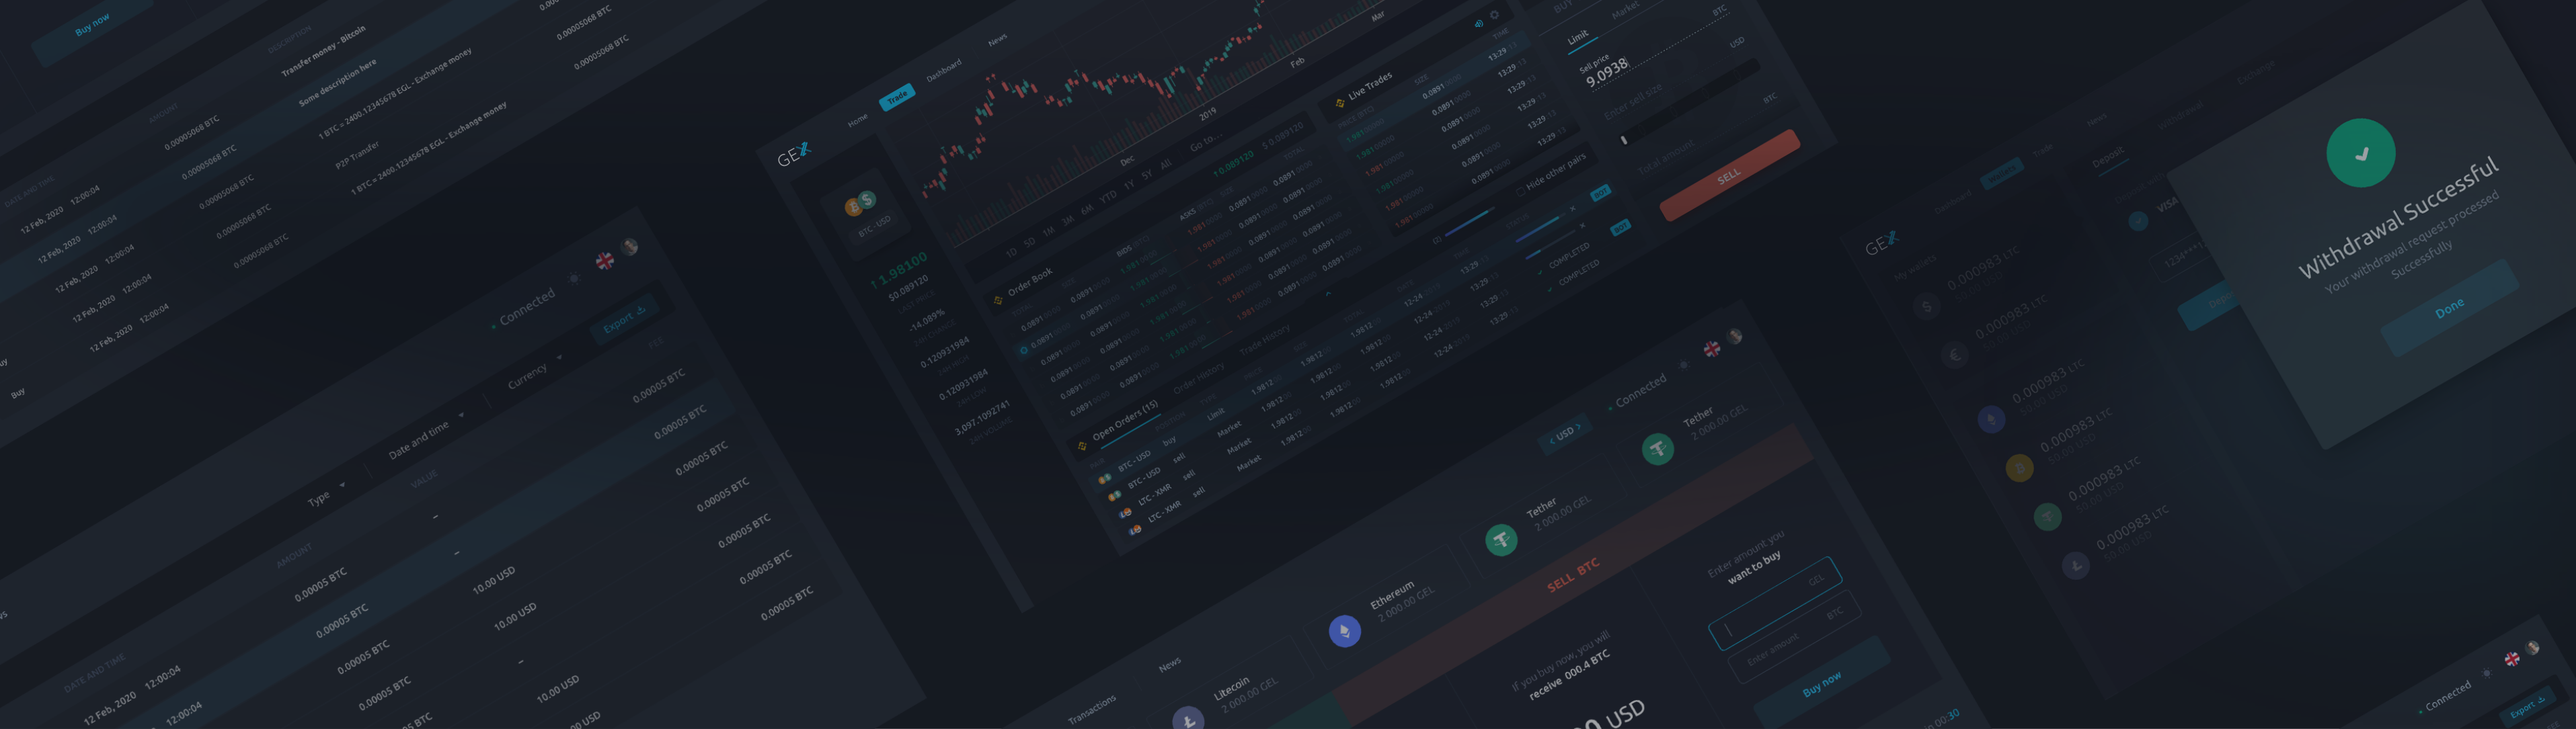
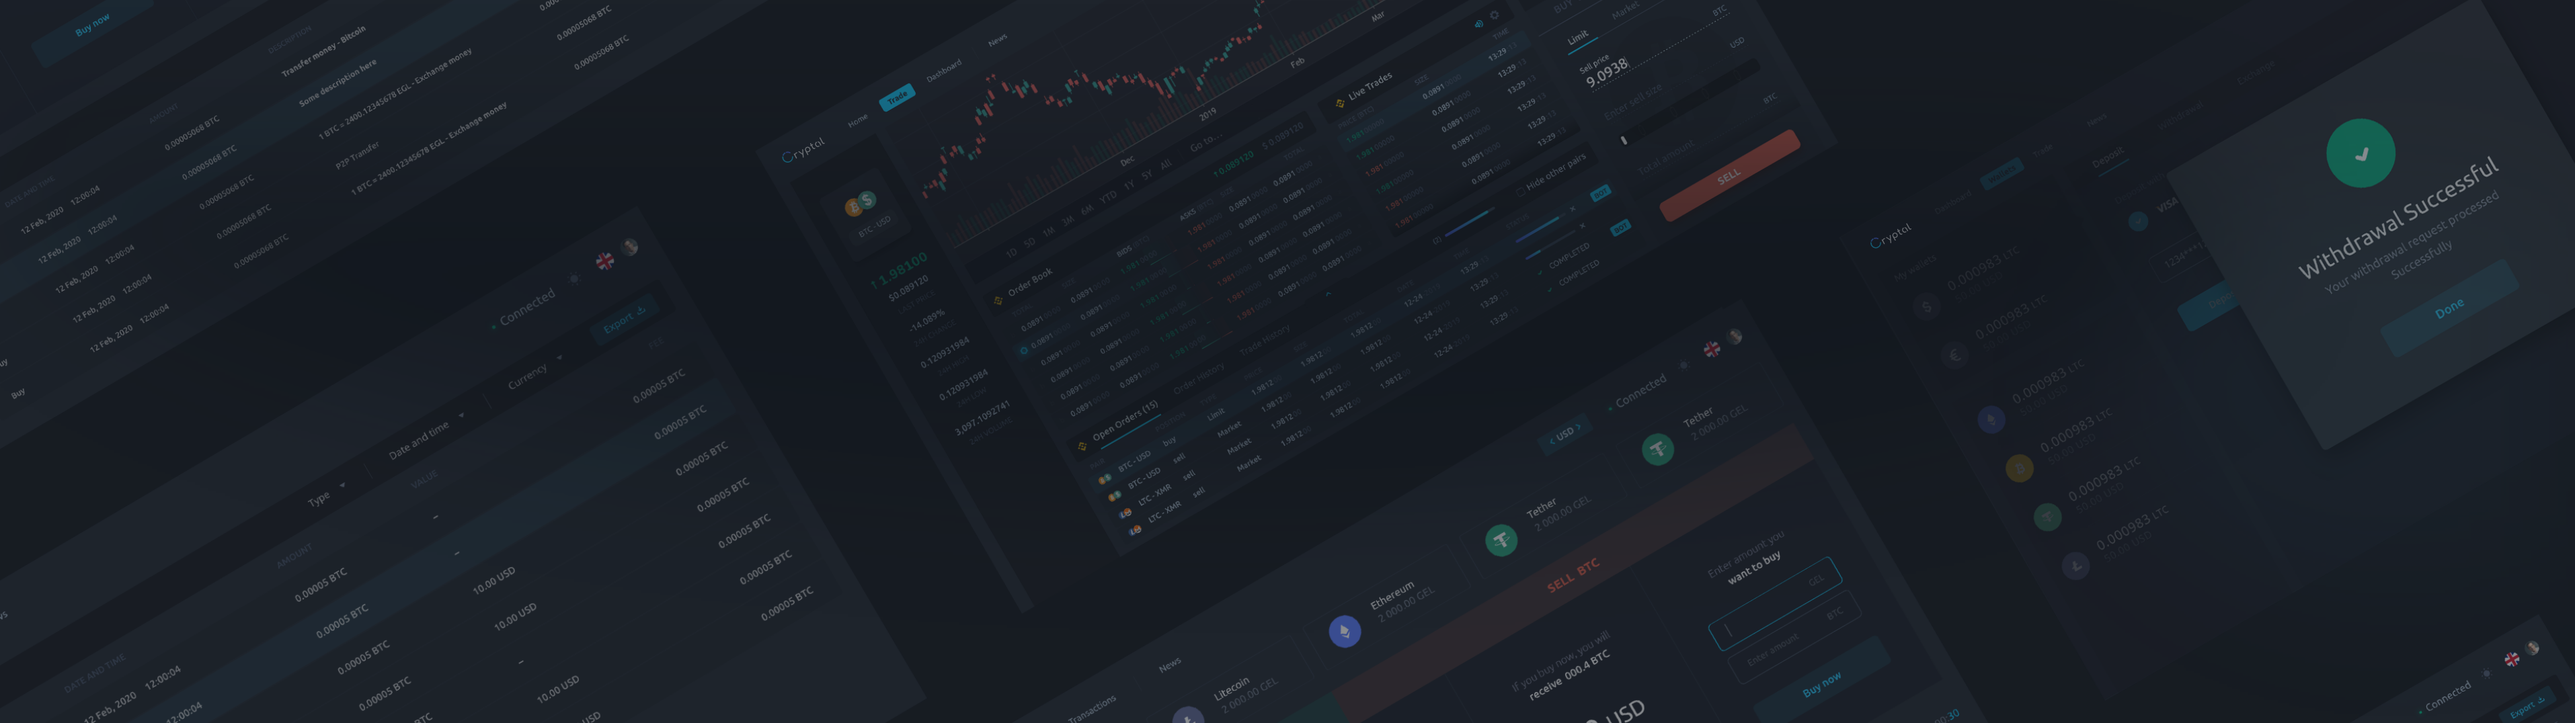
move gex to cryptal

diff --git a/src/pages/[lang]/index.tsx b/src/pages/[lang]/index.tsx
@@ -74,12 +74,12 @@ const IndexPage = ({ notFoundPage }: any) => {
   const { locale } = useTranslation();
 
   const getData = async () => {
-    const pairsResponse: any[] = await (await fetch(`${config.exchangeApi}public/ticker`)).json();
+    const pairsResponse: any[] = await (await fetch(`${data?.pages?.settings?.url?.exchangeApi}public/ticker`)).json();
     const gelPairs = pairsResponse.filter((item) => item.pair.endsWith('-GEL'));
     const usdPairs = pairsResponse.filter((item) => item.pair.endsWith('-USD'));
     setPairs({ GEL: gelPairs, USD: usdPairs });
 
-    const offers = await (await fetch(`${config.exchangeApi}private/simpleTrade/offers`)).json();
+    const offers = await (await fetch(`${data?.pages?.settings?.url?.exchangeApi}private/simpleTrade/offers`)).json();
     setTrades(offers);
 
     if (!initialized) {
@@ -117,7 +117,7 @@ const IndexPage = ({ notFoundPage }: any) => {
 
   const getImage = (baseCurrency: string) => {
     baseCurrency = baseCurrency.substr(0, baseCurrency.indexOf('-'));
-    return `${config.exchangeBaseUrl}/icons/SVG/${baseCurrency.toLowerCase()}.svg`;
+    return `${data?.pages?.settings?.url?.exchangeBaseUrl}/icons/SVG/${baseCurrency.toLowerCase()}.svg`;
   };
 
   const changeCurrency = () => {
@@ -146,7 +146,7 @@ const IndexPage = ({ notFoundPage }: any) => {
       size = sizeVal;
       price = priceVal;
     }
-    const url = `${config.targetWebsite}instant-trade?size=${size}&price=${price}&type=${sellType}&coint=${coin.coin}&currency=${currency}&lang=${locale}`;
+    const url = `${data?.pages?.settings?.url?.exchangeBaseUrl}/instant-trade?size=${size}&price=${price}&type=${sellType}&coint=${coin.coin}&currency=${currency}&lang=${locale}`;
     window.open(url, '_blank');
   };
 
@@ -163,9 +163,9 @@ const IndexPage = ({ notFoundPage }: any) => {
               <H1 locale={locale} style={{ color: '#FFFFFF', fontSize: 44 }}>
                 {page.title.description || 'Highest Liquidity Crypto Exchange in the Region'}
               </H1>
-              <a href={`${config.targetWebsite}?register=true&lang=${locale}`} target="_blank" rel="noopener">
+              <a href={page?.getStarted?.url} target={page?.getStarted?.newTab ? '_blank' : undefined} rel="noopener">
                 <RegisterButton>
-                  <span>{page.title.Button}</span>
+                  <span>{page?.getStarted?.text}</span>
                 </RegisterButton>
               </a>
             </Container>

diff --git a/src/components/header.tsx b/src/components/header.tsx
@@ -20,7 +20,7 @@ export const Header = ({ notFoundPage }: any) => {
   const footerMenu = data.pages.footerMenu;
   const hamburgerMenu = [...headerMenu, ...footerMenu].filter((v, i, a) => a.findIndex((t) => t.slug === v.slug) === i);
   const extra = data.pages?.extra || {};
-  const links: any = data.pages['home'].SignUp || {};
+  const links: any = data?.pages?.settings || {};
 
   const fixed = React.useMemo((): boolean => {
     const path = router.asPath.toLocaleLowerCase();
@@ -60,18 +60,25 @@ export const Header = ({ notFoundPage }: any) => {
         <LocaleSwitcher />
         <HeaderSeperator />
         <div className="links">
-          <a href={links.LogInURL} target="_blank" rel="noopener">
-            <Button text={links.LogInText} buttonType="text" padding="0 30px" />
+          <a href={links?.logIn?.url} target={links?.logIn?.newTab ? '_blank' : undefined} rel="noopener">
+            <Button text={links?.logIn?.text} buttonType="text" padding="0 30px" />
           </a>
-          <a href={links.SignUpUrl} target="_blank" rel="noopener">
-            <Button text={links.SignUpText} />
+          <a href={links?.signUp?.url} target={links?.signUp?.newTab ? '_blank' : undefined} rel="noopener">
+            <Button text={links?.signUp?.text} />
           </a>
         </div>
         <div className="material-hamburger-menu">
           <HamburgerMenuButton onClick={() => setSidebarOpen(true)}>
             <img src="/hamburger.svg" />
           </HamburgerMenuButton>
-          <MobileMenu pages={hamburgerMenu} router={router} open={sidebarOpen} onClose={() => setSidebarOpen(false)} extra={extra} />
+          <MobileMenu
+            links={links}
+            pages={hamburgerMenu}
+            router={router}
+            open={sidebarOpen}
+            onClose={() => setSidebarOpen(false)}
+            extra={extra}
+          />
         </div>
       </HeaderRight>
     </StyledHeader>

diff --git a/src/components/pc-drawer.tsx b/src/components/pc-drawer.tsx
@@ -28,7 +28,7 @@ const useStyles = makeStyles((theme: Theme) =>
 );
 
 export const PcDrawer: React.FC<ResponsiveDrawerProps> = (props: ResponsiveDrawerProps) => {
-  const { open, onClose, pages, router, extra } = props;
+  const { open, onClose, pages, router, extra, links } = props;
   const classes = useStyles();
   const { t, locale } = useTranslation();
 
@@ -50,10 +50,10 @@ export const PcDrawer: React.FC<ResponsiveDrawerProps> = (props: ResponsiveDrawe
               </a>
             </Link>
             <div className="links">
-              <MobileMenuItem href={`${config.targetWebsite}?login=true&lang=${locale}`} target="_blank" rel="noopener">
+              <MobileMenuItem href={links?.logIn?.url} target={links?.logIn?.newTab ? '_blank' : undefined} rel="noopener">
                 {t('Sign In')}
               </MobileMenuItem>
-              <MobileMenuItem href={`${config.targetWebsite}?register=true&lang=${locale}`} target="_blank" rel="noopener">
+              <MobileMenuItem href={links?.signUp?.url} target={links?.signUp?.newTab ? '_blank' : undefined} rel="noopener">
                 {t('Sign Up')}
               </MobileMenuItem>
             </div>
@@ -98,6 +98,7 @@ interface ResponsiveDrawerProps {
   pages: any[];
   router: any;
   extra: any;
+  links: any;
 }
 
 export default PcDrawer;

diff --git a/next.config.js b/next.config.js
@@ -2,13 +2,13 @@ module.exports = {
   exportTrailingSlash: true,
   env: {
     gaTrackingId: '',
-    website: 'https://gex.exchange',
-    targetWebsite: 'https://trade.gex.exchange/',
-    getDataUrl: 'https://content.gex.exchange',
-    getMenuUrl: 'https://content.gex.exchange/wp-json/slug/menu',
-    exchangeApi: 'https://exchange.gex.exchange/exchange-connector-1.0/api/',
-    exchangeBaseUrl: 'https://trade.gex.exchange',
-    localeCookieUrl: '.gex.exchange',
+    website: 'https://cryptal.com',
+    // targetWebsite: 'https://trade.gex.exchange/',
+    getDataUrl: 'https://content.cryptal.com',
+    // getMenuUrl: 'https://content.gex.exchange/wp-json/slug/menu',
+    // exchangeApi: 'https://exchange.cryptal.com/exchange-connector-1.0/api/', // <--
+    // exchangeBaseUrl: 'https://trade.gex.exchange', // <--
+    localeCookieUrl: '.cryptal.com',
     fbPageId: '107413211066997',
     fbAppId: '315470196311206'
   },

diff --git a/src/styled/index.ts b/src/styled/index.ts
@@ -18,6 +18,10 @@ export const StyledHeader = styled.header<{ fix?: boolean }>`
   .logo {
     color: #f4f5fa;
     cursor: pointer;
+
+    img {
+      max-width: 140px;
+    }
   }
 
   @media ${responsive.lg} {
@@ -38,7 +42,7 @@ export const StyledHeader = styled.header<{ fix?: boolean }>`
 
     .logo {
       img {
-        max-width: 80px;
+        max-width: 120px;
         position: relative;
         top: 4px;
       }

diff --git a/src/pages/404.tsx b/src/pages/404.tsx
@@ -8,7 +8,7 @@ import { NotFoundWrapperStyled } from '@/styled/pages';
 
 const ErrorPage = () => (
   <>
-    <CustomHead title="GEX - 404 Page not found" page="" description="404" />
+    <CustomHead title="Cryptal - 404 Page not found" page="" description="404" />
     <Layout>
       <Hero>
         <InnerPage>
